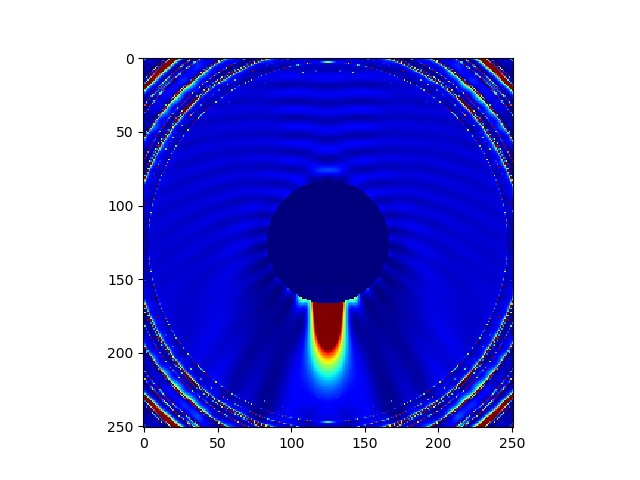
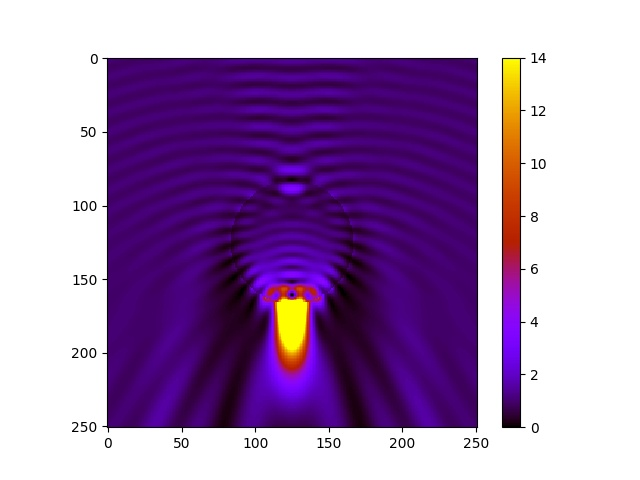
fixes and additional NaN checks

diff --git a/src/nmie-impl.hpp b/src/nmie-impl.hpp
@@ -286,6 +286,7 @@ namespace nmie {
   // ********************************************************************** //
   template <typename FloatType>
   void MultiLayerMie<FloatType>::calcNstop() {
+    //Wiscombe
     const FloatType& xL = size_param_.back();
     if (xL <= 8) {
       nmax_ = newround(xL + 4.0*pow(xL, 1.0/3.0) + 1);
@@ -294,6 +295,9 @@ namespace nmie {
     } else {
       nmax_ = newround(xL + 4.0*pow(xL, 1.0/3.0) + 2);
     }
+    //Le Ru
+    auto Nstop = nmie::LeRu_cutoff(static_cast<double>(xL))+1;
+    if (Nstop > nmax_) nmax_ = Nstop;
   }
 
 
@@ -693,9 +697,10 @@ namespace nmie {
       if (nmm::isnan(an_[n].real()) || nmm::isnan(an_[n].imag()) ||
           nmm::isnan(bn_[n].real()) || nmm::isnan(bn_[n].imag())
           ) {
-        nmax_ = n;
         // TODO somehow notify Python users about it
-        std::cout << "nmax value was chaned due to unexpected error. New values is "<<nmax_<<std::endl;
+        std::cout << "nmax value was chaned due to unexpected error. New values is "<< n
+                  << " (was "<<nmax_<<")"<<std::endl;
+        nmax_ = n;
         break;
       }
 
@@ -1028,7 +1033,8 @@ namespace nmie {
     // Calculate angular functions Pi and Tau
     calcPiTau(nmm::cos(Theta), Pi, Tau);
 
-    for (int n = nmax_ - 2; n >= 0; n--) {
+//    for (int n = nmax_ - 2; n >= 0; n--) {
+    for (int n = 0; n < nmax_-1; n++) {
       int n1 = n + 1;
       auto rn = static_cast<FloatType>(n1);
 
@@ -1040,13 +1046,17 @@ namespace nmie {
       std::complex<FloatType> En = ipow[n1 % 4]
       *static_cast<FloatType>((rn + rn + 1.0)/(rn*rn + rn));
       for (int i = 0; i < 3; i++) {
+        auto Ediff = En*(      cln_[l][n]*M1o1n[i] - c_i*dln_[l][n]*N1e1n[i]
+                         + c_i*aln_[l][n]*N3e1n[i] -     bln_[l][n]*M3o1n[i]);
+        auto Hdiff = En*(     -dln_[l][n]*M1e1n[i] - c_i*cln_[l][n]*N1o1n[i]
+                         + c_i*bln_[l][n]*N3o1n[i] +     aln_[l][n]*M3e1n[i]);
+        if (nmm::isnan(Ediff.real()) || nmm::isnan(Ediff.imag()) ||
+            nmm::isnan(Hdiff.real()) || nmm::isnan(Hdiff.imag())
+            ) break;
         if (mode_n_ == Modes::kAll) {
           // electric field E [V m - 1] = EF*E0
-          E[i] += En*(      cln_[l][n]*M1o1n[i] - c_i*dln_[l][n]*N1e1n[i]
-                      + c_i*aln_[l][n]*N3e1n[i] -     bln_[l][n]*M3o1n[i]);
-
-          H[i] += En*(     -dln_[l][n]*M1e1n[i] - c_i*cln_[l][n]*N1o1n[i]
-                      + c_i*bln_[l][n]*N3o1n[i] +     aln_[l][n]*M3e1n[i]);
+          E[i] += Ediff;
+          H[i] += Hdiff;
           continue;
         }
         if (n1 == mode_n_) {

diff --git a/src/special-functions-impl.hpp b/src/special-functions-impl.hpp
@@ -62,8 +62,9 @@ namespace nmie {
 // Note, that Kapteyn seems to be too optimistic (at least by 3 digits
 // in some cases) for forward recurrence, see D1test with WYang_data
 int evalKapteynNumberOfLostSignificantDigits(const int ni,
-                                             const std::complex<double> z) {
+                                             const std::complex<FloatType> zz) {
   using std::abs;  using std::imag; using std::real; using std::log; using std::sqrt; using std::round;
+  std::complex<double> z = ConvertComplex<double>(zz);
   auto n = static_cast<double>(ni);
   auto one = std::complex<double> (1, 0);
   return round((
@@ -74,6 +75,7 @@ int evalKapteynNumberOfLostSignificantDigits(const int ni,
 }
 
 int getNStar(int nmax, std::complex<FloatType> z, const int valid_digits) {
+  if (nmax == 0) nmax = 1;
   int nstar = nmax;
   auto z_dp = ConvertComplex<double>(z);
   int forwardLoss = evalKapteynNumberOfLostSignificantDigits(nmax, z_dp);
@@ -320,17 +322,23 @@ void evalForwardD1 (const std::complex<FloatType> z,
 void evalDownwardD1 (const std::complex<FloatType> z,
                      std::vector<std::complex<FloatType> >& D1) {
   int nmax = D1.size() - 1;
+  int valid_digits = 10;
+#ifdef MULTI_PRECISION
+  valid_digits += MULTI_PRECISION;
+#endif
+  int nstar = nmie::getNStar(nmax, z, valid_digits);
+  D1.resize(nstar+1);
   // Downward recurrence for D1 - equations (16a) and (16b)
-  D1[nmax] = std::complex<FloatType>(0.0, 0.0);
+  D1[nstar] = std::complex<FloatType>(0.0, 0.0);
   std::complex<FloatType> c_one(1.0, 0.0);
   const std::complex<FloatType> zinv = std::complex<FloatType>(1.0, 0.0)/z;
-  for (unsigned int n = nmax; n > 0; n--) {
+  for (unsigned int n = nstar; n > 0; n--) {
     D1[n - 1] = static_cast<FloatType>(n)*zinv - c_one/
         (D1[n] + static_cast<FloatType>(n)*zinv);
   }
   // Use D1[0] from upward recurrence
   D1[0] = complex_cot(z);
-
+  D1.resize(nmax+1);
 //  printf("D1[0] = (%16.15g, %16.15g) z=(%16.15g,%16.15g)\n", D1[0].real(),D1[0].imag(),
 //         z.real(),z.imag());
 }

diff --git a/examples/Opt.Commun.-2010-Geints-Nanojets_of_dielectric_microspheres/fig1.py b/examples/Opt.Commun.-2010-Geints-Nanojets_of_dielectric_microspheres/fig1.py
@@ -36,7 +36,10 @@ from scattnlay import scattnlay
 import numpy as np
 from matplotlib import pyplot as plt
 
-npts = 151
+import inspect
+print("Using scattnlay from ", inspect.getfile(scattnlay))
+
+npts = 251
 factor = 3. # plot extent compared to sphere radius
 index_H2O = 1.33+0.j
 
@@ -44,18 +47,22 @@ WL = 0.532 #mkm
 total_r = 1 #mkm
 isMP = False
 # isMP = True
+
+# nmax = 230
+nmax = -1
+
 nm = 1.0 # pihost medium
-x = 2.0 * np.pi * np.array([total_r / 4.0 * 3.0, total_r], dtype=np.float64) / WL
-m = np.array((index_H2O, index_H2O), dtype=np.complex128) / nm
+x = 2.0 * np.pi * np.array([total_r], dtype=np.float64) / WL
+m = np.array((index_H2O), dtype=np.complex128) / nm
 
 print("x =", x)
 print("m =", m)
 terms, Qext, Qsca, Qabs, Qbk, Qpr, g, Albedo, S1, S2 = scattnlay(
     np.array([x]), np.array([m]))
-print("Qsca = " + str(Qsca))
+print("Qsca = " + str(Qsca)+" terms = "+str(terms))
 terms, Qext, Qsca, Qabs, Qbk, Qpr, g, Albedo, S1, S2 = scattnlay(
     np.array([x]), np.array([m]), mp=True)
-print("mp Qsca = " + str(Qsca))
+print("mp Qsca = " + str(Qsca)+" terms = "+str(terms))
 
 scan = np.linspace(-factor*x[-1], factor*x[-1], npts)
 zero = np.zeros(npts*npts, dtype = np.float64)
@@ -68,20 +75,25 @@ coordY = zero
 terms, E, H = fieldnlay(
     np.array([x]), np.array([m]),
     coordX, coordY, coordZ,
-    mp=isMP
+    mp=isMP,
+    nmax=nmax
 )
 Ec = E[0, :, :]
 Er = np.absolute(Ec)
 Eabs2 = (Er[:, 0]**2 + Er[:, 1]**2 + Er[:, 2]**2)
 Eabs_data = np.resize(Eabs2, (npts, npts))
 label = r'$|E|^2$'
-plt.imshow(Eabs_data,
-           cmap='jet',
+pos = plt.imshow(Eabs_data,
+           cmap='gnuplot',
+                 # cmap='jet',
            vmin=0., vmax=14
 
            )
-print(np.min(Eabs_data), np.max(Eabs_data))
+plt.colorbar(pos)
+print(np.min(Eabs_data), np.max(Eabs_data)," terms = "+str(terms))
 mp = ''
 if isMP: mp = '_mp'
-plt.savefig("R"+str(total_r)+"mkm"+mp+".jpg")
+plt.savefig("R"+str(total_r)+"mkm"+mp+".jpg",
+            # dpi=300
+            )
 # plt.show()

diff --git a/tests/test_Riccati_Bessel_logarithmic_derivative.cc b/tests/test_Riccati_Bessel_logarithmic_derivative.cc
@@ -271,10 +271,12 @@ TEST(D3test, mpmath_generated_input) {
     parse2_mpmath_data(min_abs_tol, data, x, m, n, D1_mp, re_abs_tol, im_abs_tol);
     z = m*x;
     auto Nstop = nmie::LeRu_cutoff(z)+1;
-    std::vector<std::complex<nmie::FloatType>> Db(Nstop),Dold(Nstop+135), r;
-    int valid_digits = 14;
-    int nstar = nmie::getNStar(Nstop, z, valid_digits);
+//    auto Nstop = n;
+    std::vector<std::complex<nmie::FloatType>> Db(Nstop),Dold(Nstop), r;
+    int valid_digits = 10;
+    int nstar = nmie::getNStar(n, z, valid_digits);
     r.resize(nstar);
+    Db.resize(nstar);
     nmie::evalBackwardR(z,r);
     nmie::convertRtoD1(z, r, Db);
     if (n > Db.size()) continue;
@@ -295,7 +297,7 @@ TEST(D3test, mpmath_generated_input) {
 
 //TEST(D1test, DISABLED_WYang_data){
 TEST(D1test, WYang_data){
-  double abs_tol = 1e-9;
+  double abs_tol = 4e-10;
   int test_loss_digits = std::round(15 - std::log10(1/abs_tol));
   int Nstop = 131;
   std::vector<std::complex<nmie::FloatType>> Df(Nstop), Db(Nstop),Dold(Nstop), r;
@@ -308,12 +310,6 @@ TEST(D1test, WYang_data){
   r.resize(Nstop+1);
   nmie::evalForwardR(z, r);
   nmie::convertRtoD1(z, r, Df);
-// eval backward recurrence
-  int valid_digits = 6;
-  int nstar = nmie::getNStar(Nstop, z, valid_digits);
-  r.resize(nstar);
-  nmie::evalBackwardR(z,r);
-  nmie::convertRtoD1(z, r, Db);
 
 for (int i = 0; i < Dtest_n.size(); i++) {
   int n = Dtest_n[i];
@@ -325,6 +321,14 @@ for (int i = 0; i < Dtest_n.size(); i++) {
     EXPECT_NEAR(std::imag(Df[n]), std::imag(Dtest_D1[i]),
                 abs_tol) << "f at n=" << n << " lost digits = " << forward_loss_digits;
   }
+// eval backward recurrence
+  int valid_digits = 6;
+  int nstar = nmie::getNStar(n, z, valid_digits);
+  r.resize(nstar);
+  Db.resize(nstar);
+  nmie::evalBackwardR(z,r);
+  nmie::convertRtoD1(z, r, Db);
+
   EXPECT_NEAR(std::real(Db[n]), std::real(Dtest_D1[i]),
               abs_tol) << "b at n=" << n;
   EXPECT_NEAR(std::imag(Db[n]), std::imag(Dtest_D1[i]),

diff --git a/src/nmie.cc b/src/nmie.cc
@@ -257,7 +257,7 @@ namespace nmie {
   //   Number of multipolar expansion terms used for the calculations                 //
   //**********************************************************************************//
   int nMie(const unsigned int L, const int pl, std::vector<double>& x, std::vector<std::complex<double> >& m, const unsigned int nTheta, std::vector<double>& Theta, const int nmax, double *Qext, double *Qsca, double *Qabs, double *Qbk, double *Qpr, double *g, double *Albedo, std::vector<std::complex<double> >& S1, std::vector<std::complex<double> >& S2) {
-    return nmie::nMie(L, -1, x, m, nTheta, Theta, -1, Qext, Qsca, Qabs, Qbk, Qpr, g, Albedo, S1, S2, -1, -1);
+    return nmie::nMie(L, -1, x, m, nTheta, Theta, nmax, Qext, Qsca, Qabs, Qbk, Qpr, g, Albedo, S1, S2, -1, -1);
 
   }
   //**********************************************************************************//
@@ -413,7 +413,7 @@ namespace nmie {
       ml_mie.SetFieldCoords({ConvertVector<FloatType>(Xp_vec),
 	    ConvertVector<FloatType>(Yp_vec),
 	    ConvertVector<FloatType>(Zp_vec) });
-
+      if (nmax != -1) ml_mie.SetMaxTerms(nmax);
       ml_mie.SetModeNmaxAndType(mode_n, mode_type);
 
       ml_mie.RunFieldCalculation();

diff --git a/tests/mpmath_input_arguments.py b/tests/mpmath_input_arguments.py
@@ -15,7 +15,8 @@ complex_arguments = [
     # [0.056, [1.5, 1],   0.1033467, 1.216311e-05, 'h'],
     # [100,   [1.5, 1],    2.097502, 1.283697, 'i'],
     # [1,     [10,  10],   2.532993, 2.049405, 'k'],
-    [100,   [10,  10,],  2.071124, 1.836785, 'l'],
+    # [100,   [10,  10,],  2.071124, 1.836785, 'l'],
+    [11.8104986977059896, [1.33,0], 0,0, 'nanojet 1mkm']
     # [1, [mp.pi,  1],   0, 0, 'pi'],
     # [1, [mp.pi,  -1],   0, 0, 'pi'],
     # [1, [mp.pi,  mp.pi],   0, 0, 'pi'],

diff --git a/tests/mpmath_special_functions_test_generator.py b/tests/mpmath_special_functions_test_generator.py
@@ -211,8 +211,8 @@ def main():
     # # In literature Zeta or Ksi denote the Riccati-Bessel function of third kind.
     # sf_evals.run_test(mrb.ksi, 'zeta', is_only_x=True)
 
-    sf_evals.run_test(mrb.an, 'an', is_xm=True)
-    sf_evals.run_test(mrb.bn, 'bn', is_xm=True)
+    # sf_evals.run_test(mrb.an, 'an', is_xm=True)
+    # sf_evals.run_test(mrb.bn, 'bn', is_xm=True)
 
     # sf_evals.run_test(mrb.psi, 'psi')
     # sf_evals.run_test(mrb.psi_div_ksi, 'psi_div_ksi')
